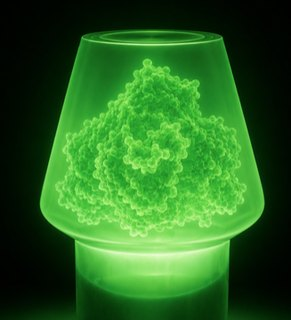
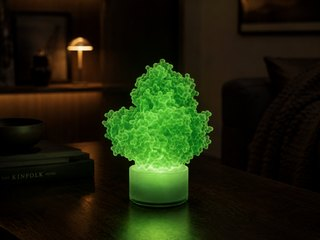
Shop: hero now shows only the Haalarimerkki; clicking it opens a full-screen solukko.shop overlay with the Haalarimerkki enlarged in the centre (420px) and the other products (Solusota, Juliste, Lamppu) on the sides (close via X, backdrop click, or Esc). Word-link tooltip: bigger text (1.05rem) and 

diff --git a/index.html b/index.html
@@ -45,8 +45,8 @@ try{
 * { box-sizing: border-box; margin: 0; padding: 0; -webkit-tap-highlight-color: transparent; }
 /* custom cursors — forced everywhere (!important) so per-element cursor rules don't fall back to the OS pointer; Mona uses the grab hand */
 * { cursor: url('cursor_normal.png') 4 2, auto !important; }
-body.hover-interactive, body.hover-interactive * { cursor: url('cursor_grab.png') 20 24, grab !important; }   /* over anything clickable (toggled by JS) */
-body.grabbing-mona, body.grabbing-mona * { cursor: url('cursor_grab.png') 20 24, grabbing !important; }   /* while Mona is being dragged */
+body.hover-interactive, body.hover-interactive * { cursor: url('cursor_grab.png') 20 12, grab !important; }   /* over anything clickable (toggled by JS) */
+body.grabbing-mona, body.grabbing-mona * { cursor: url('cursor_grab.png') 20 12, grabbing !important; }   /* while Mona is being dragged */
 body { font-family: 'Lora', Georgia, serif; background: #f5f0e8; color: #1a1612; min-height: 100vh; display: flex; flex-direction: column; align-items: center; padding: 0 1rem 2.5rem; position: relative; }
 
 /* ── 2. VIRHEVIESTI-PALKKI ───────────────────────────────── */
@@ -95,6 +95,17 @@ body.dark-mode .shop-embed-head { color: #eadfce; border-bottom-color: #4a4038; 
 body.dark-mode .shop-embed-imgwrap { background: #332b25; }
 body.dark-mode .shop-embed-name { color: #eadfce; }
 @media (max-width: 640px){ .shop-embed { width: 150px; margin-left: 1rem; } .shop-embed-imgwrap img { width: 104px; } }
+/* solukko.shop overlay */
+#shop-overlay { position: fixed; inset: 0; z-index: 200; background: rgba(24,18,12,0.66); backdrop-filter: blur(4px); display: flex; align-items: center; justify-content: center; padding: 2rem; overflow: auto; }
+.shop-overlay-inner { display: flex; align-items: center; justify-content: center; gap: 2.2rem; }
+.shop-overlay-side { display: flex; flex-direction: column; gap: 1.6rem; flex: 0 0 auto; }
+.shop-overlay-side .shop-embed { max-width: 210px; width: 210px; }
+.shop-embed.shop-embed-big { max-width: 420px; width: 420px; }
+.shop-embed.shop-embed-big .shop-embed-imgwrap img { max-height: 340px; }
+.shop-embed.shop-embed-big .shop-embed-name { font-size: 1.3rem; }
+.shop-embed.shop-embed-big .shop-embed-price { font-size: 1.5rem; }
+#shop-overlay-close { position: fixed; top: 18px; right: 24px; z-index: 201; width: 48px; height: 48px; border-radius: 50%; border: none; background: rgba(255,254,249,0.92); color: #56533c; font-size: 1.8rem; line-height: 1; cursor: pointer; box-shadow: 0 4px 16px rgba(0,0,0,0.3); }
+@media (max-width: 900px){ .shop-overlay-inner { flex-direction: column; gap: 1.4rem; } .shop-overlay-side { flex-direction: row; flex-wrap: wrap; justify-content: center; } .shop-embed.shop-embed-big { width: 300px; max-width: 300px; } }
 .hero-body { display: flex; align-items: flex-start; gap: 2rem; margin-top: 1.4rem; text-align: left; }
 .hero-shop { flex: 1 1 auto; min-width: 0; display: grid; grid-template-columns: repeat(auto-fit, minmax(160px, 1fr)); gap: 1.2rem; align-items: start; justify-items: center; }   /* fills the rest; smaller product cards */
 #home-hero .hero-manifest { font-size: 1.05rem; line-height: 1.75; color: #56533c; flex: 0 0 620px; width: 620px; aspect-ratio: 1 / 1; margin: 0; padding-right: 1.6rem; text-align: justify; overflow: hidden; }   /* perfect square at the very left edge; overflow:hidden contains the floated portrait */
@@ -850,7 +861,7 @@ body.is-mobile .comment-area { position: static; width: 100%; }
 .word-link.wl-show::after, .word-link:hover::after { border-top-color: #fff5e0; }
 body.dark-mode .word-link.wl-show, body.dark-mode .word-link:hover { background-color: #4a3f34; box-shadow: 0 0 0 4px #4a3f34, 0 4px 12px rgba(0,0,0,0.3); }
 body.dark-mode .word-link.wl-show::after, body.dark-mode .word-link:hover::after { border-top-color: #4a3f34; }
-#word-link-tooltip { position: fixed; z-index: 99999; width: min(520px, calc(100vw - 24px)); max-width: min(520px, calc(100vw - 24px)); min-width: 180px; background: #fffef9; border: 1px solid #d4cec4; border-radius: 12px; padding: 0.75rem 1rem; box-shadow: 0 8px 28px rgba(0,0,0,0.15); font-family: 'Lora', serif; font-size: 0.82rem; line-height: 1.5; color: #56533c; display: none; pointer-events: none; white-space: normal; overflow-wrap: anywhere; word-break: normal; max-height: none; overflow: visible; }
+#word-link-tooltip { position: fixed; z-index: 99999; width: min(540px, calc(100vw - 24px)); max-width: min(540px, calc(100vw - 24px)); min-width: 200px; background: #fffef9; border: 1px solid #d4cec4; border-radius: 12px; padding: 0.9rem 1.15rem; box-shadow: 0 8px 28px rgba(0,0,0,0.15); font-family: 'Lora', serif; font-size: 1.05rem; line-height: 1.55; color: #56533c; display: none; pointer-events: none; white-space: normal; overflow-wrap: anywhere; word-break: normal; max-height: none; overflow: visible; }
 body.dark-mode #word-link-tooltip { background: #3a312b; border-color: #6d5f52; color: #eadfce; }
 #word-link-tooltip * { max-width: 100%; white-space: normal; overflow-wrap: anywhere; }
 #word-link-tooltip img, #word-link-tooltip svg, #word-link-tooltip video { max-width: 100%; max-height: 220px; width: auto !important; height: auto !important; object-fit: contain; display: block; margin: 0.5rem auto; border-radius: 8px; }
@@ -948,10 +959,7 @@ body.dark-mode #word-link-tooltip { background: #3a312b; border-color: #6d5f52; 
     <div class="hero-body">
     <p class="hero-manifest"><img id="aku-portrait" src="aku_bw.jpg" alt="Aku" width="170"> Moi! Nimeni on Aku ja ylläpidän solukko.comia. Oma kokemukseni yliopistosta on ollut, etteivät monet opetettavat asiat ole niin vaikeita kuin ne luentodioissa esitetään. Tämän sivuston tavoite on tarjota tuleville tieteentekijöille ja kaikille tieteestä kiinnostuneille mahdollisimman selkokielinen, kuvitettu ja helppokäyttöinen oppimateriaali. Opiskelu solukko.comissa perustuu suosikkimenetelmääni eli kysymyskortteihin, joiden olen todennut tuottavan parhaan tenttimenestyksen ja pysyvimmän muistijäljen. Tällä hetkellä valikoimassa ovat Turun yliopiston biokemian kandikurssit, mutta sisältöä on tarkoitus laajentaa myös muille luonnontiedealoille. Jos haluat luoda kysymyskortteja omasta tutkinnostasi, otathan yhteyttä osoitteeseen <a class="hero-link" href="mailto:contact@solukko.com">contact@solukko.com</a>. Sivusto on kutsumusprojekti, ja haluan sen aina pysyvän maksuttomana, mutta voit auttaa sen kehittämisessä kommentoimalla parannusehdotuksia tai ostamalla haalarimerkin <a class="hero-link" href="https://solukko.shop" target="_blank" rel="noopener noreferrer">solukko.shopista</a>. Kiitoksena korttitietojen kehittämisestä, arvon kommentoijien kesken myös 5&nbsp;&euro; joka perjantai klo 14:00. Voittajan kommentti maalautuu kultaiseksi sillä laitteella, jolla kommentti jätettiin. Lunasta palkinto lähettämällä kuvakaappaus kultaisesta kommentistasi osoitteeseen <a class="hero-link" href="mailto:contact@solukko.com">contact@solukko.com</a>. Onnea opintoihisi!</p>
       <div class="hero-shop">
-        <a class="shop-embed" href="https://solukko.shop" target="_blank" rel="noopener noreferrer"><span class="shop-embed-head"><span class="shop-embed-dot"></span>solukko.shop</span><span class="shop-embed-imgwrap"><img src="merkki_web.png" alt="Haalarimerkki"></span><span class="shop-embed-name">Haalarimerkki</span><span class="shop-embed-price">5,00&nbsp;&euro;</span><span class="shop-embed-buy">Osta</span></a>
-        <a class="shop-embed" href="https://solukko.shop" target="_blank" rel="noopener noreferrer"><span class="shop-embed-head"><span class="shop-embed-dot"></span>solukko.shop</span><span class="shop-embed-imgwrap"><img src="solusota_web.jpg" alt="Solusota"></span><span class="shop-embed-name">Solusota &ndash; korttipeli</span><span class="shop-embed-price">19,90&nbsp;&euro;</span><span class="shop-embed-buy">Osta</span></a>
-        <a class="shop-embed" href="https://solukko.shop" target="_blank" rel="noopener noreferrer"><span class="shop-embed-head"><span class="shop-embed-dot"></span>solukko.shop</span><span class="shop-embed-imgwrap"><img src="poster_web.jpg" alt="Juliste"></span><span class="shop-embed-name">Juliste</span><span class="shop-embed-price">15,00&nbsp;&euro;</span><span class="shop-embed-buy">Osta</span></a>
-        <a class="shop-embed" href="https://solukko.shop" target="_blank" rel="noopener noreferrer"><span class="shop-embed-head"><span class="shop-embed-dot"></span>solukko.shop</span><span class="shop-embed-imgwrap"><img src="lamp_web.jpg" alt="Lamppu"></span><span class="shop-embed-name">Lamppu</span><span class="shop-embed-price">24,90&nbsp;&euro;</span><span class="shop-embed-buy">Osta</span></a>
+        <a class="shop-embed" href="#" onclick="openShopOverlay(event)"><span class="shop-embed-head"><span class="shop-embed-dot"></span>solukko.shop</span><span class="shop-embed-imgwrap"><img src="merkki_web.png" alt="Haalarimerkki"></span><span class="shop-embed-name">Haalarimerkki</span><span class="shop-embed-price">5,00&nbsp;&euro;</span><span class="shop-embed-buy">Osta</span></a>
       </div>
     </div>
   </div>
@@ -965,6 +973,20 @@ body.dark-mode #word-link-tooltip { background: #3a312b; border-color: #6d5f52; 
         </div>
       </div>
     </button>
+  </div>
+</div>
+<!-- solukko.shop overlay: opened from the hero Haalarimerkki; enlarged product in the centre, the rest on the sides -->
+<div id="shop-overlay" style="display:none" onclick="if(event.target===this)closeShopOverlay()">
+  <button id="shop-overlay-close" onclick="closeShopOverlay()" aria-label="Sulje">&times;</button>
+  <div class="shop-overlay-inner">
+    <div class="shop-overlay-side">
+      <a class="shop-embed" href="https://solukko.shop" target="_blank" rel="noopener noreferrer"><span class="shop-embed-head"><span class="shop-embed-dot"></span>solukko.shop</span><span class="shop-embed-imgwrap"><img src="solusota_web.jpg" alt="Solusota"></span><span class="shop-embed-name">Solusota &ndash; korttipeli</span><span class="shop-embed-price">19,90&nbsp;&euro;</span><span class="shop-embed-buy">Osta</span></a>
+      <a class="shop-embed" href="https://solukko.shop" target="_blank" rel="noopener noreferrer"><span class="shop-embed-head"><span class="shop-embed-dot"></span>solukko.shop</span><span class="shop-embed-imgwrap"><img src="poster_web.jpg" alt="Juliste"></span><span class="shop-embed-name">Juliste</span><span class="shop-embed-price">15,00&nbsp;&euro;</span><span class="shop-embed-buy">Osta</span></a>
+    </div>
+    <a class="shop-embed shop-embed-big" href="https://solukko.shop" target="_blank" rel="noopener noreferrer"><span class="shop-embed-head"><span class="shop-embed-dot"></span>solukko.shop</span><span class="shop-embed-imgwrap"><img src="merkki_web.png" alt="Haalarimerkki"></span><span class="shop-embed-name">Haalarimerkki</span><span class="shop-embed-price">5,00&nbsp;&euro;</span><span class="shop-embed-buy">Osta</span></a>
+    <div class="shop-overlay-side">
+      <a class="shop-embed" href="https://solukko.shop" target="_blank" rel="noopener noreferrer"><span class="shop-embed-head"><span class="shop-embed-dot"></span>solukko.shop</span><span class="shop-embed-imgwrap"><img src="lamp_web.jpg" alt="Lamppu"></span><span class="shop-embed-name">Lamppu</span><span class="shop-embed-price">24,90&nbsp;&euro;</span><span class="shop-embed-buy">Osta</span></a>
+    </div>
   </div>
 </div>
 <input type="file" id="apkg-import-input" accept=".apkg,application/octet-stream" style="display:none" onchange="importApkgFile(this.files&&this.files[0]); this.value='';">
@@ -2038,6 +2060,9 @@ function scrollPastHero(){   // start with the hero section just above the viewp
   requestAnimationFrame(doScroll);
   setTimeout(doScroll, 120); setTimeout(doScroll, 400);   // again once the deck layout has settled
 }
+function openShopOverlay(e){ if(e){ e.preventDefault(); } const o=document.getElementById('shop-overlay'); if(o) o.style.display='flex'; }
+function closeShopOverlay(){ const o=document.getElementById('shop-overlay'); if(o) o.style.display='none'; }
+document.addEventListener('keydown', e=>{ if(e.key==='Escape'){ const o=document.getElementById('shop-overlay'); if(o && o.style.display!=='none') closeShopOverlay(); } });
 
 async function startDeck(deckName){
   show('loading'); hide('deck-screen');
@@ -3839,7 +3864,7 @@ function flashWordLinkBubbles(){   // when a card/answer loads: pop the speech-b
     const card=reviewCards[idx]; if(!card) return;
     const front=getField(card,['Front','front','Question','question','Text','text','Content','content'])||card.question||'';
     const back=getField(card,['Back','back','Answer','answer','Extra','extra'])||card.answer||'';
-    tip.innerHTML='<div style="font-weight:700;margin-bottom:0.6rem;">'+prepareTooltipHtml(front)+'</div><div>'+prepareTooltipHtml(back)+'</div>';
+    tip.innerHTML=prepareTooltipHtml(back||front);   // only the definition (no front/term field)
     tip.style.display='block'; tip.style.width='min(520px, calc(100vw - 24px))';
     const r=target.getBoundingClientRect(), tw=tip.offsetWidth, th=tip.offsetHeight, vw=window.innerWidth, vh=window.innerHeight;
     let l=r.left, t=r.bottom+8;
